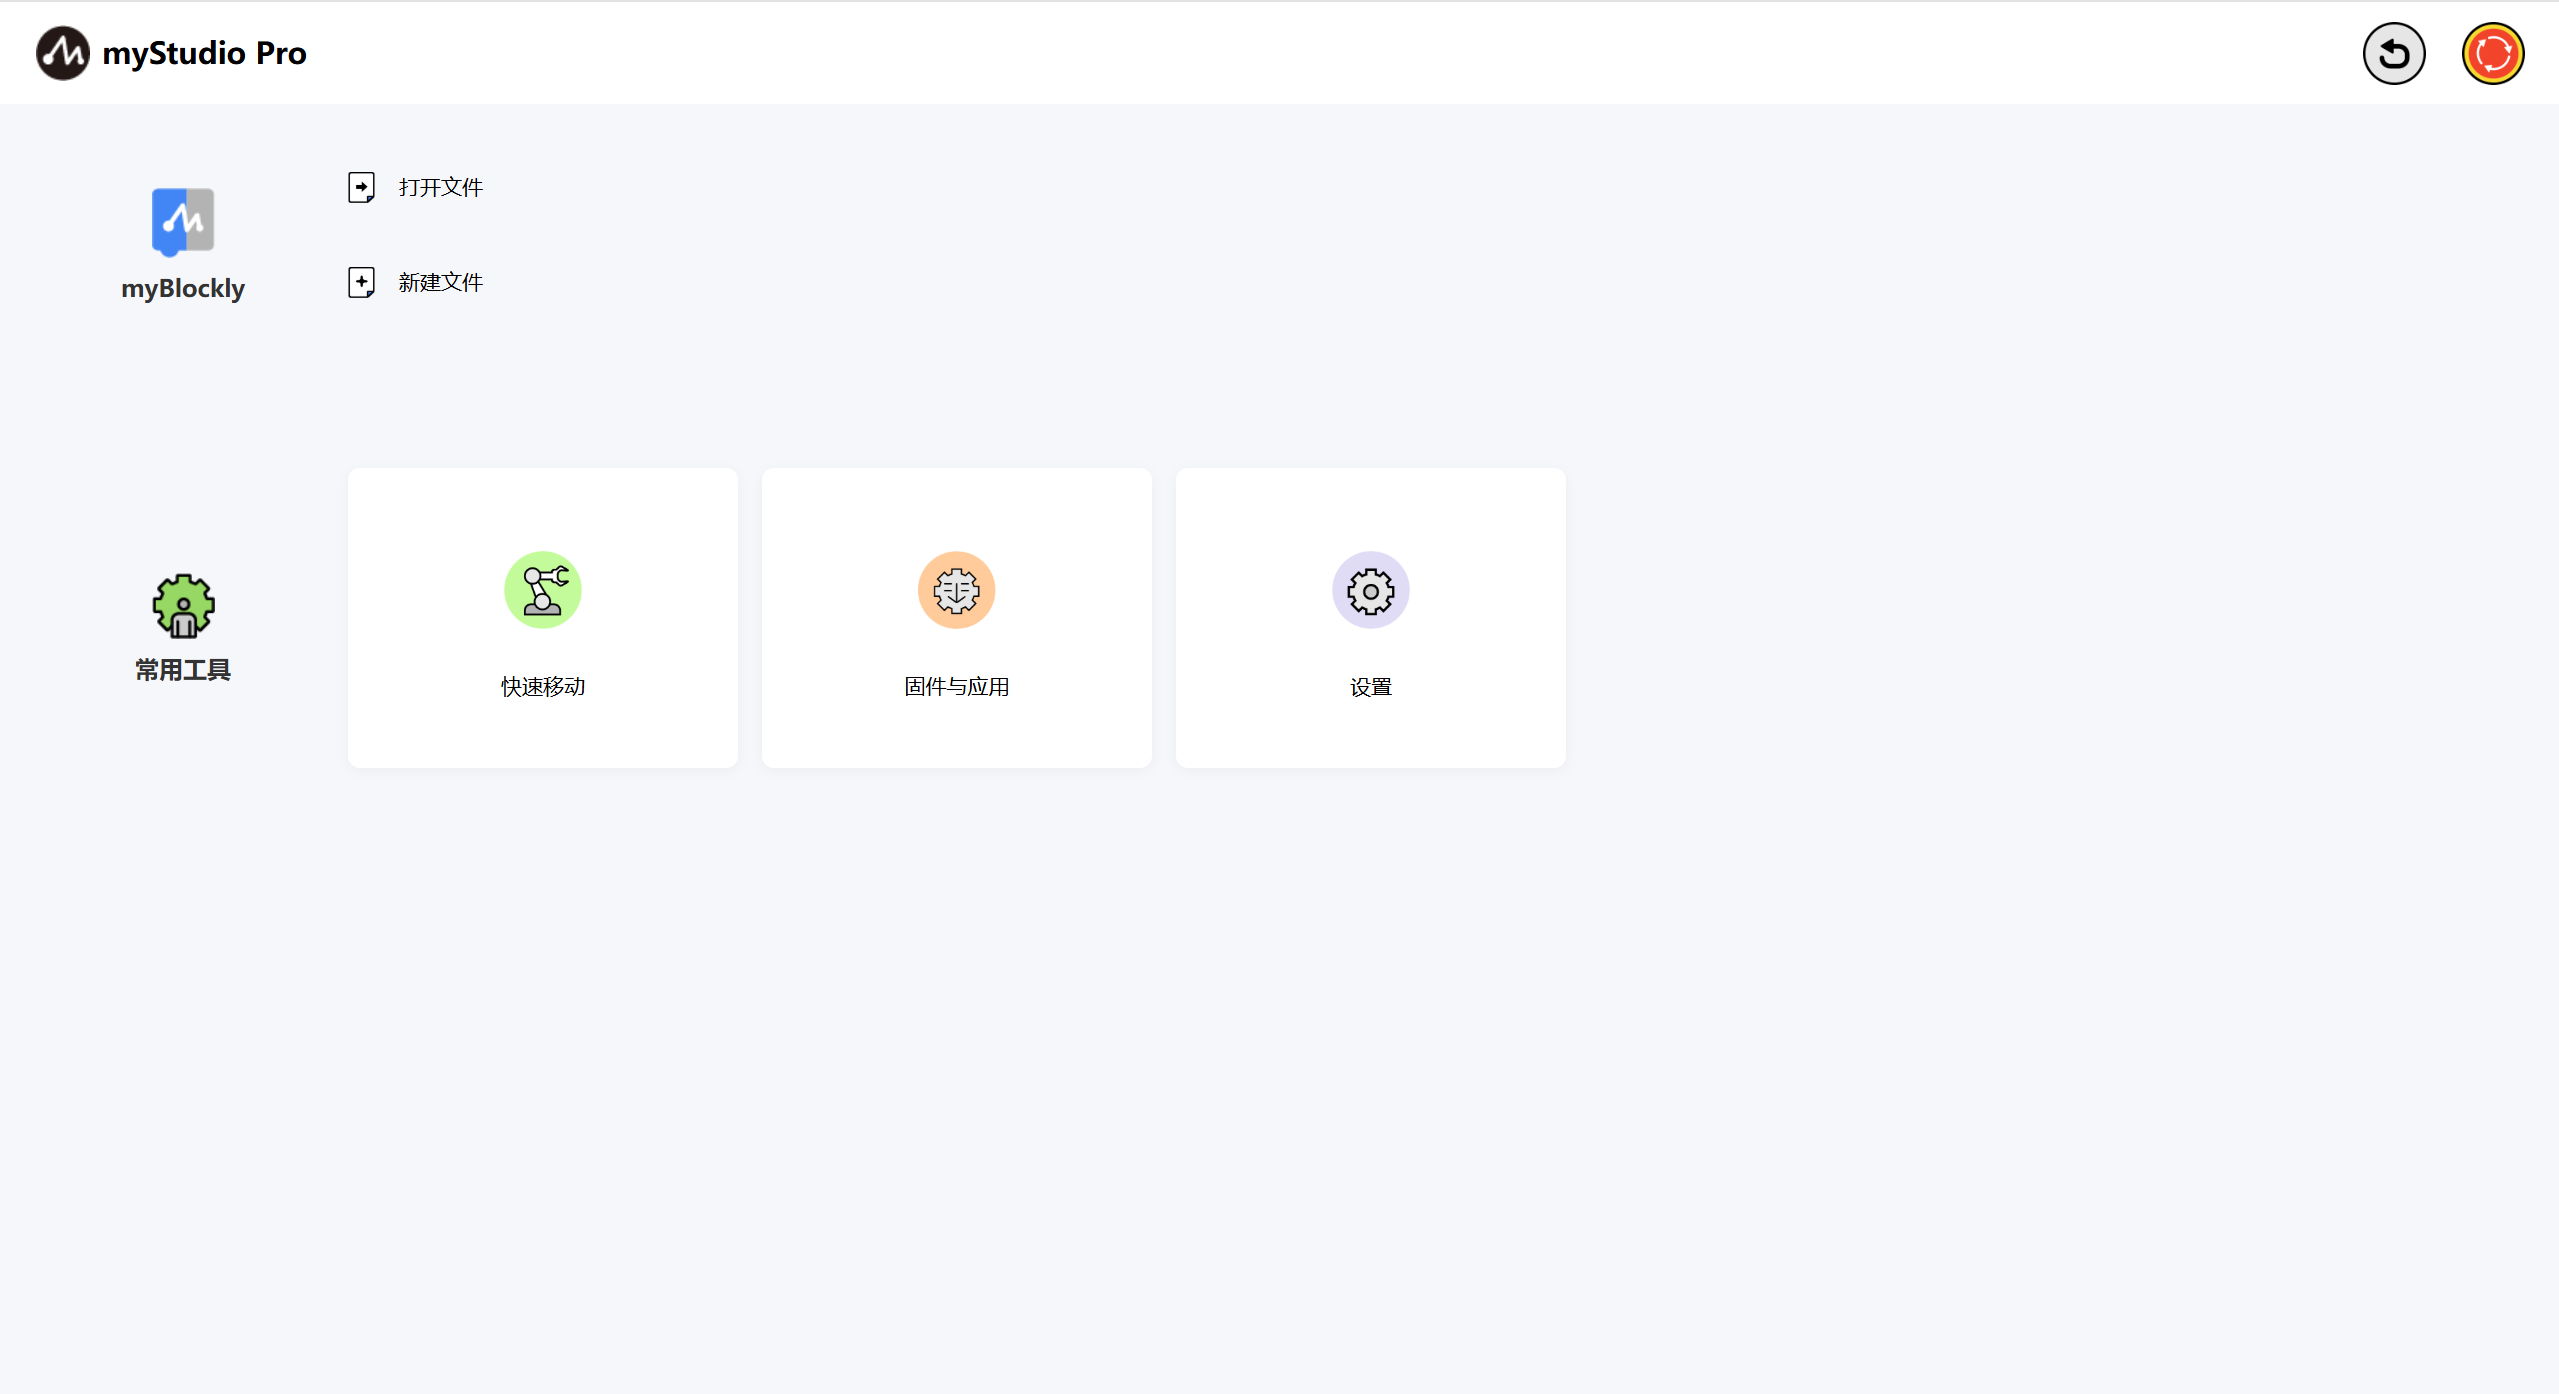
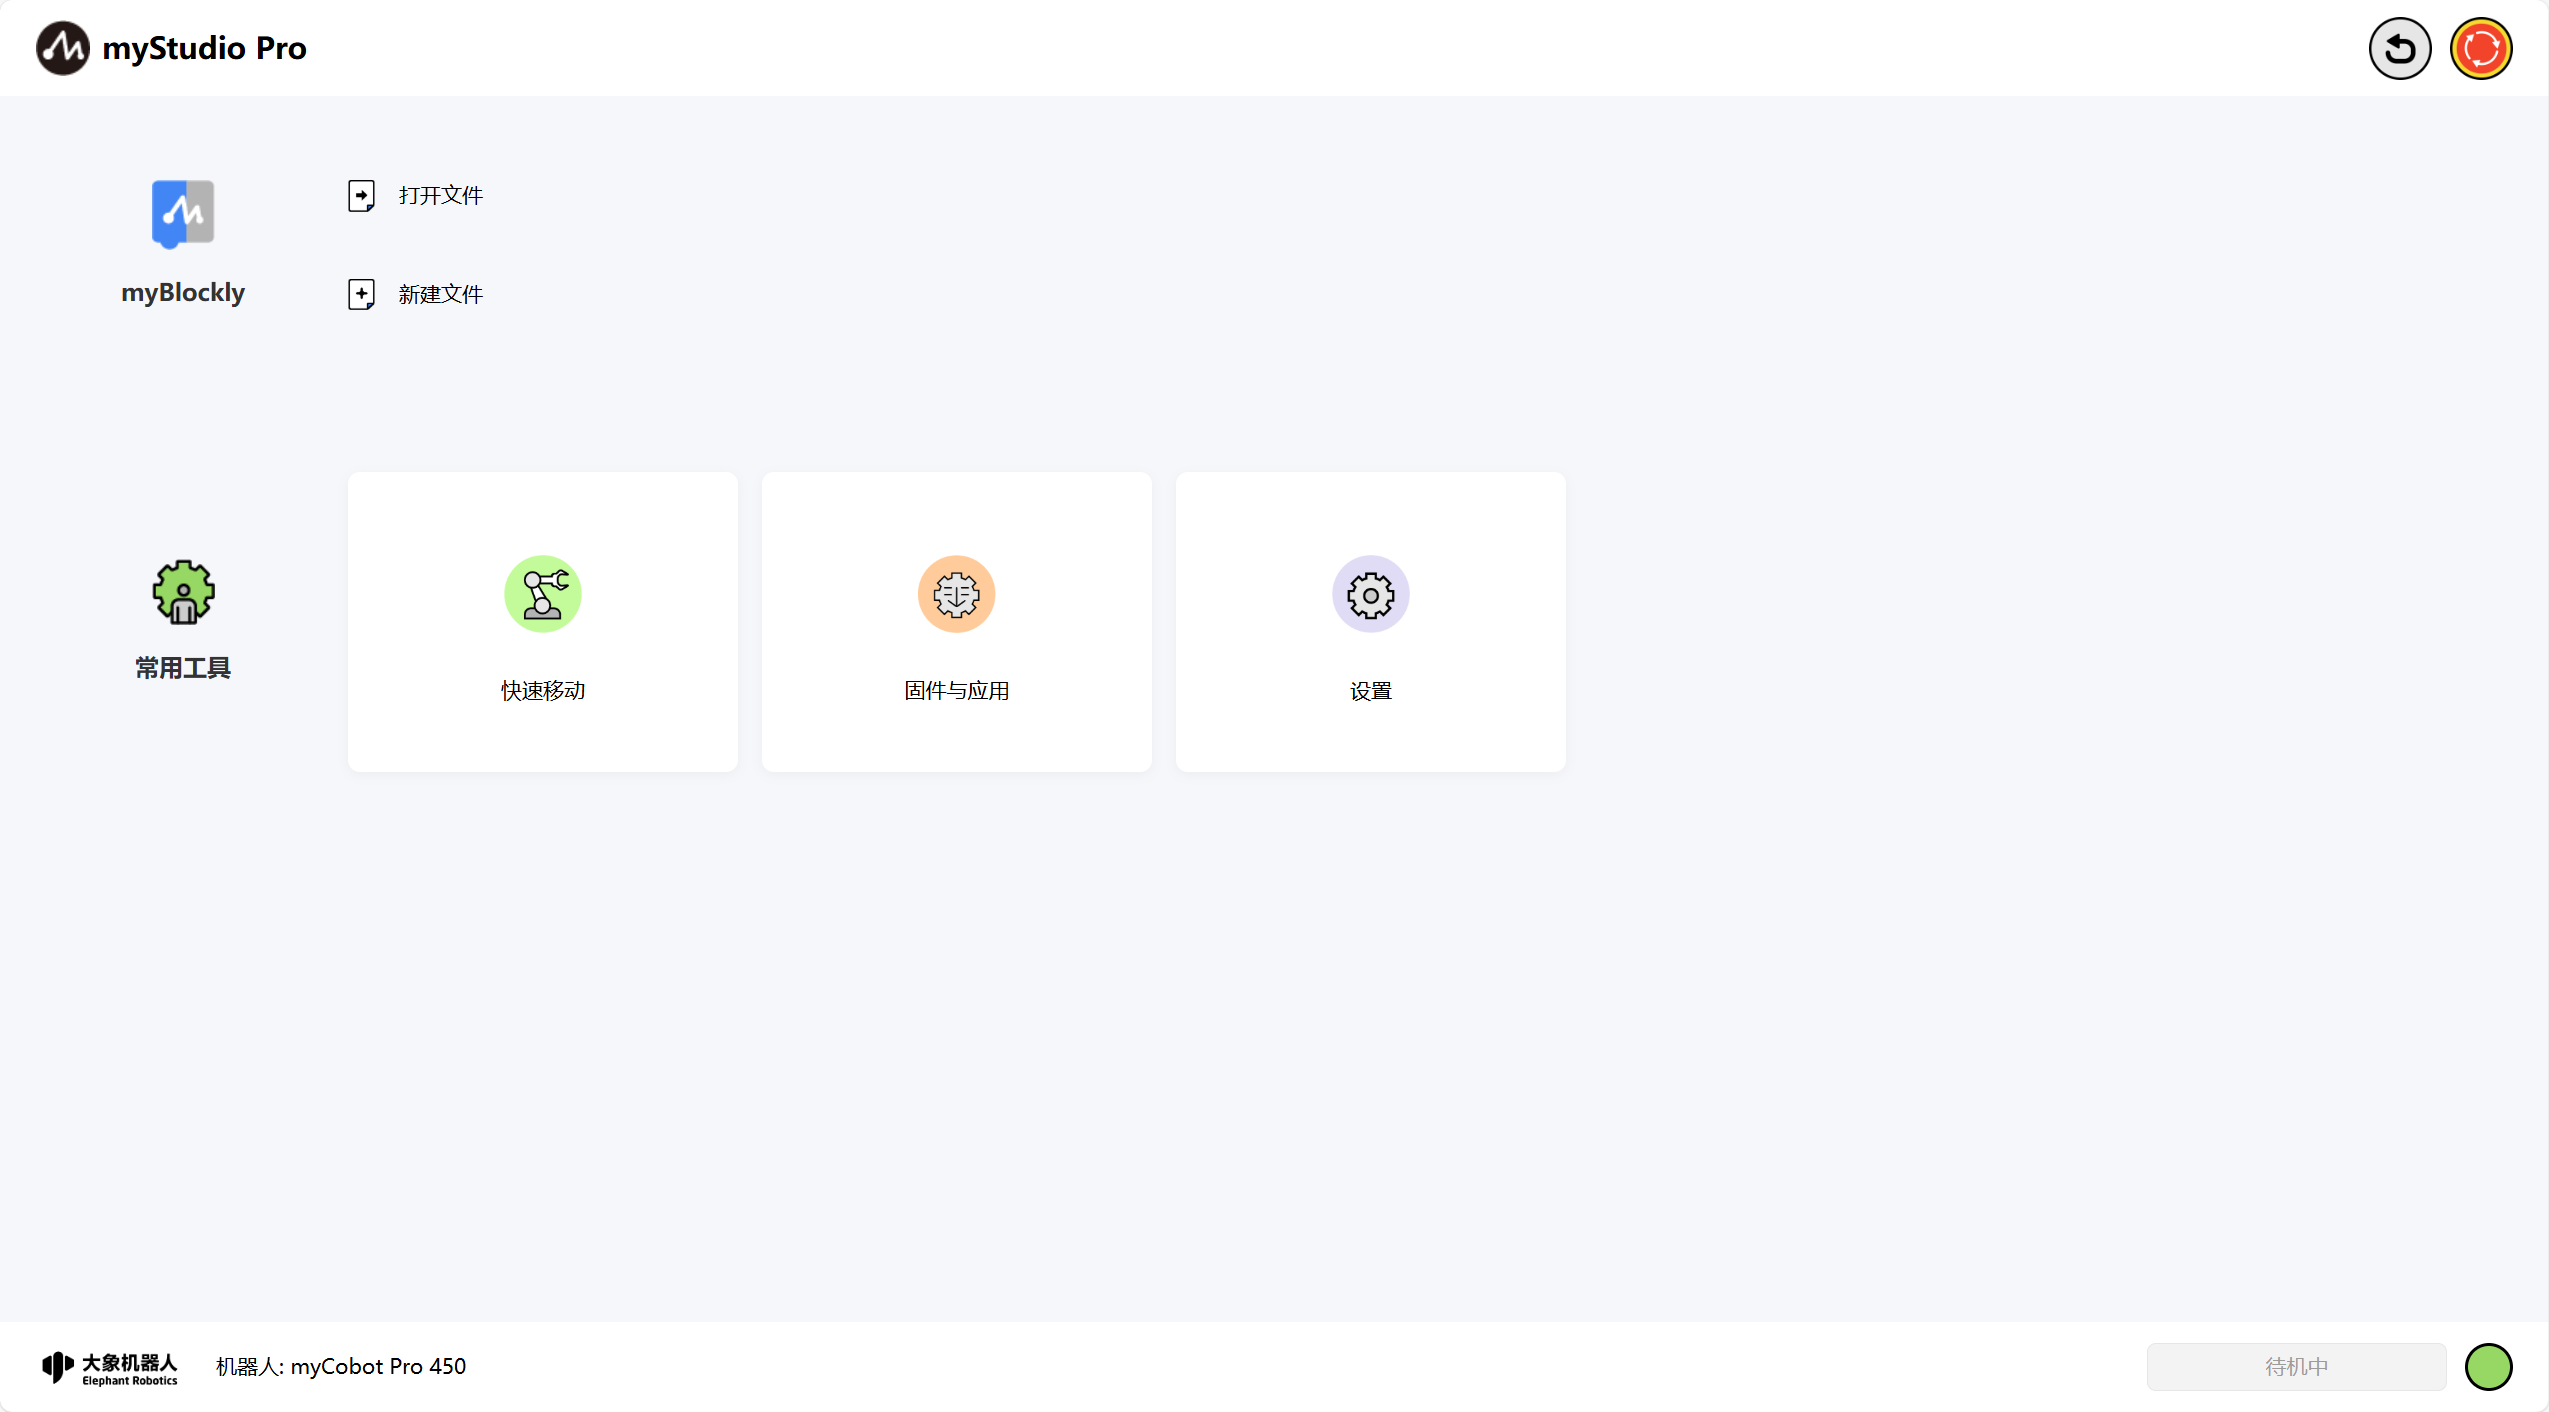
docs(myStudioPro): New trajectory usage instructions for markdown

diff --git a/myCobot_Pro_450_cn/3-FunctionsAndApplications/5-BasicApplication/5.5-blockly/5.5.12-trajectory.md b/myCobot_Pro_450_cn/3-FunctionsAndApplications/5-BasicApplication/5.5-blockly/5.5.12-trajectory.md
@@ -1,0 +1,44 @@
+# 轨迹
+
+*开始之前*
+
+> *1、确保机器已上电*
+> 
+> *2、确保机器连接正常*
+> 
+> *3、服务端开启*
+
+本章介绍如何使用轨迹功能来控制机械臂，实现拖动示教。
+
+功能描述：通过`录制多条轨迹数据（机械臂的关节）`信息，快速控制机械臂到达每一个轨迹点位置。打开轨迹列表页面，点击录制轨迹按钮，机械臂各关节将放松，手动拖动机械臂录制轨迹，点击停止录制等待轨迹保存，保存完成即轨迹录制完成。
+
+<img src="../../../resources/3-FunctionsAndApplications/5.myBlockly/blockly/trajectory-1.png" />
+
+| 序号 | 说明                                                         |
+| ---- | ------------------------------------------------------------ |
+| 1    | 先选择需要删除的轨迹，至少勾选一条数据按钮可用，点击删除即可将所有勾选的轨迹删除。 |
+| 2    | 列表数据勾选列，功能1以该功能为前提。     |
+| 3    | 点击“复现”按钮，可以对该轨迹进行复现操作。   |
+| 4    | 点击“拷贝”按钮，可以把当前轨迹拷贝至测试文件工作区。 |
+| 5    | 点击“录制轨迹”按钮，机械臂会二次确认是否进行轨迹录制操作，确认后可开始录制（最长60s，超过将自动停止录制）。   |
+
+再`blockly`中选择轨迹积木块，加入到程序编程区。在工作区中点击轨迹积木块的下拉菜单可选择当前轨迹列表页面中的数据。
+
+<img src="../../../resources/3-FunctionsAndApplications/5.myBlockly/blockly/trajectory-2.png" />
+
+
+<img src="../../../resources/3-FunctionsAndApplications/5.myBlockly/blockly/trajectory-3.png" />
+
+
+<img src="../../../resources/3-FunctionsAndApplications/5.myBlockly/blockly/trajectory-4.png" />
+
+选择完成后打开运行面板，点击运行全部，可以积木块运行的方式对该轨迹进行复现。
+
+<img src="../../../resources/3-FunctionsAndApplications/5.myBlockly/blockly/trajectory-5.png" />
+
+<img src="../../../resources/3-FunctionsAndApplications/5.myBlockly/blockly/trajectory-6.png" />
+
+程序运行完成后，轨迹复现完成。当然，您也可以配合其他积木块进行更复杂的程序编程。
+
+
+[← 上一页](./5.5.11-dragTeach.md) | [下一页 →](../5.6-quickmove/5.6.1-quickmovefirstuse.md)

diff --git a/myCobot_Pro_450_cn/README.md b/myCobot_Pro_450_cn/README.md
@@ -72,6 +72,7 @@
       * [5.5.9 路点](3-FunctionsAndApplications/5-BasicApplication/5.5-blockly/5.5.9-waypoint.md)
       * [5.5.10 夹爪的使用](3-FunctionsAndApplications/5-BasicApplication/5.5-blockly/5.5.10-gripperUse.md)
       * [5.5.11 拖动示教的使用](3-FunctionsAndApplications/5-BasicApplication/5.5-blockly/5.5.11-dragTeach.md)
+      * [5.5.12 轨迹](3-FunctionsAndApplications/5-BasicApplication/5.5-blockly/5.5.12-trajectory.md)
     * [5.6 快速移动](3-FunctionsAndApplications/5-BasicApplication/5.6-quickmove/5.6.1-quickmovefirstuse.md)
     * [5.7 固件与应用](3-FunctionsAndApplications/5-BasicApplication/5.7-firmware/5.7.1-firmware_main.md)
     * [5.8 设置](3-FunctionsAndApplications/5-BasicApplication/5.8-setting/5.8.1-setting_main.md)

diff --git a/myCobot_Pro_450_cn/SUMMARY.md b/myCobot_Pro_450_cn/SUMMARY.md
@@ -38,6 +38,7 @@
       * [5.5.9 路点](3-FunctionsAndApplications/5-BasicApplication/5.5-blockly/5.5.9-waypoint.md)
       * [5.5.10 夹爪的使用](3-FunctionsAndApplications/5-BasicApplication/5.5-blockly/5.5.10-gripperUse.md)
       * [5.5.11 拖动示教的使用](3-FunctionsAndApplications/5-BasicApplication/5.5-blockly/5.5.11-dragTeach.md)
+      * [5.5.12 轨迹](3-FunctionsAndApplications/5-BasicApplication/5.5-blockly/5.5.12-trajectory.md)
     * [5.6 快速移动](3-FunctionsAndApplications/5-BasicApplication/5.6-quickmove/5.6.1-quickmovefirstuse.md)
     * [5.7 固件与应用](3-FunctionsAndApplications/5-BasicApplication/5.7-firmware/5.7.1-firmware_main.md)
     * [5.8 设置](3-FunctionsAndApplications/5-BasicApplication/5.8-setting/5.8.1-setting_main.md)

diff --git a/myCobot_Pro_450_cn/3-FunctionsAndApplications/5-BasicApplication/5.5-blockly/5.5.9-waypoint.md b/myCobot_Pro_450_cn/3-FunctionsAndApplications/5-BasicApplication/5.5-blockly/5.5.9-waypoint.md
@@ -10,7 +10,7 @@
 
 本章介绍如何使用路点功能来控制机械臂。
 
-功能描述：通过`录入多个路点数据（机械臂的关节和坐标）`信息，快速控制机械臂到达每个路点的位置。打开路点列表页面，打开自由移动，放松机械臂，手动调整机械臂姿态，点击新增点位，可以添加一条路点数据。
+功能描述：通过`录入多个路点数据（机械臂的关节和坐标）`信息，快速控制机械臂到达每个路点的位置。打开路点列表页面，长按末端按钮，放松机械臂，手动调整机械臂姿态，点击新增点位，可以添加一条路点数据。
 
 <img src="../../../resources/3-FunctionsAndApplications/5.myBlockly/blockly/waypoint1.png" />
 

diff --git a/myCobot_Pro_450_cn/3-FunctionsAndApplications/5-BasicApplication/5.5-blockly/5.5.11-dragTeach.md b/myCobot_Pro_450_cn/3-FunctionsAndApplications/5-BasicApplication/5.5-blockly/5.5.11-dragTeach.md
@@ -37,4 +37,4 @@
 
 <img src="../../../resources/3-FunctionsAndApplications/5.myBlockly/blockly/dragTeach3.png" />
 
-[← 上一页](./5.5.10-gripperUse.md) |[下一页 →](../5.6-quickmove/5.6.1-quickmovefirstuse.md)
+[← 上一页](./5.5.10-gripperUse.md) | [下一页 →](./5.5.12-trajectory.md)
